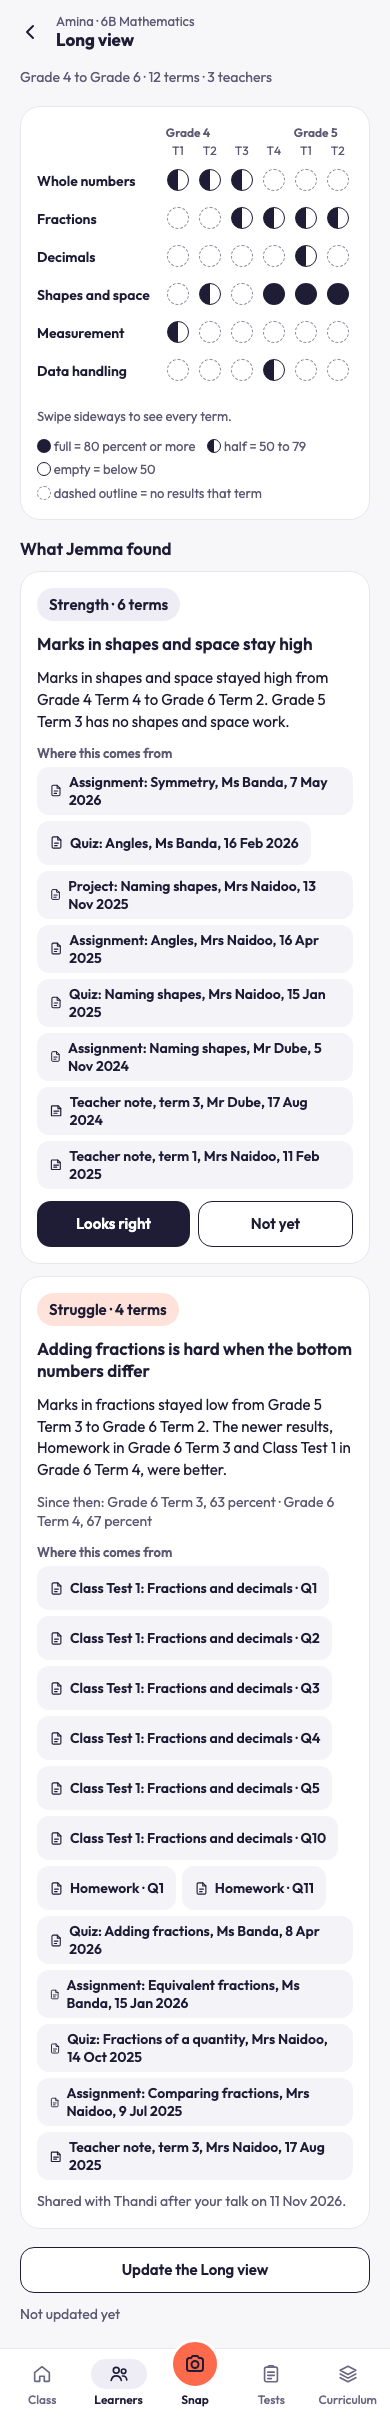
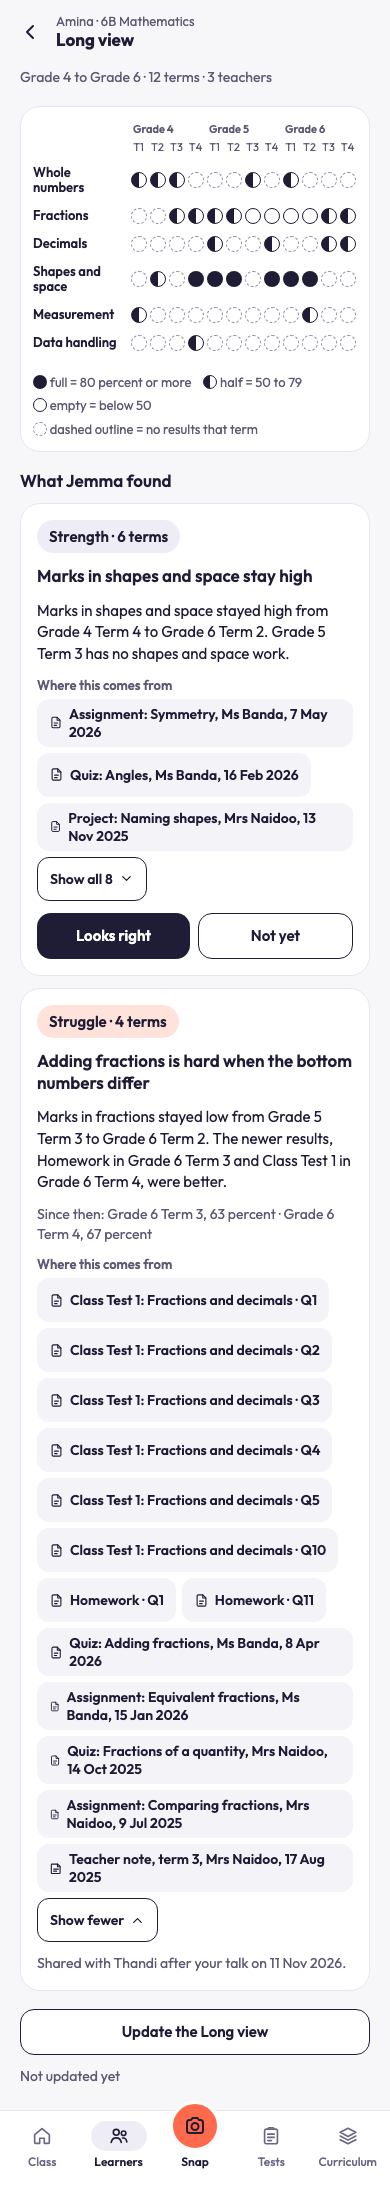
feat(long-view): the phone grid shows every term (12 or fewer) with no sideways scroll; checks at 390, 360 and 320

diff --git a/apps/web/app/t/[classId]/learners/[childId]/long-view/page.tsx b/apps/web/app/t/[classId]/learners/[childId]/long-view/page.tsx
@@ -1,4 +1,5 @@
 import { notFound } from 'next/navigation'
+import type { CSSProperties } from 'react'
 import { EmptyState } from '@/components/blocks'
 import { Card } from '@/components/ui'
 import { requireRole } from '@/lib/auth'
@@ -8,13 +9,16 @@ import { PatternCard, SetAside } from './PatternCard'
 import { OpenUpdate, UpdateBar } from './UpdateBar'
 
 const DOT = 'block size-[22px] rounded-pill'
+/** A crowded grid on a phone: the dot is 16 px, and never wider than its column less 3 px, so two dots never touch. From a laptop up it is the usual 22 px. */
+const DOT_CROWDED = 'block rounded-pill max-lg:mx-auto max-lg:aspect-square max-lg:w-[calc(100%-3px)] max-lg:max-w-4 lg:size-[22px]'
 
 /** One dot of the grid. Full, half and empty are filled, half-filled and a ring; dashed means no results that term. */
-function Dot({ level }: { level: DotLevel }) {
-  if (level === 'full') return <span aria-hidden="true" className={`${DOT} bg-ink`} />
-  if (level === 'half') return <span aria-hidden="true" className={`${DOT} border-[1.5px] border-ink bg-[linear-gradient(90deg,var(--color-ink)_50%,transparent_50%)]`} />
-  if (level === 'empty') return <span aria-hidden="true" className={`${DOT} border-[1.5px] border-ink bg-card`} />
-  return <span aria-hidden="true" className={`${DOT} border-[1.5px] border-dashed border-muted-2`} />
+function Dot({ level, crowded = false }: { level: DotLevel; crowded?: boolean }) {
+  const size = crowded ? DOT_CROWDED : DOT
+  if (level === 'full') return <span aria-hidden="true" className={`${size} bg-ink`} />
+  if (level === 'half') return <span aria-hidden="true" className={`${size} border-[1.5px] border-ink bg-[linear-gradient(90deg,var(--color-ink)_50%,transparent_50%)]`} />
+  if (level === 'empty') return <span aria-hidden="true" className={`${size} border-[1.5px] border-ink bg-card`} />
+  return <span aria-hidden="true" className={`${size} border-[1.5px] border-dashed border-muted-2`} />
 }
 
 function MiniDot({ level }: { level: DotLevel }) {
@@ -25,6 +29,14 @@ function MiniDot({ level }: { level: DotLevel }) {
   )
 }
 
+/** Up to this many term columns a phone fits the whole grid in its card. More than this, or a window under 360 px, and the grid scrolls inside the card as before. */
+const PHONE_FITS = 12
+/** A phone column is never narrower than this, and the strand names get 96 px. */
+const PHONE_COLUMN_MIN = 15
+const PHONE_STRAND_WIDTH = 96
+/** In a 320 px window the card is 254 px wide, so from this many terms the grid has to scroll inside it, and says so. */
+const SCROLLS_UNDER_360_FROM = 11
+
 /** Strands down the side, terms across, grouped under their grade. The strand names stay put when the grid scrolls sideways. */
 function Grid({ v }: { v: LongView }) {
   if (v.rows.length === 0) {
@@ -34,13 +46,32 @@ function Grid({ v }: { v: LongView }) {
       </Card>
     )
   }
+  const terms = v.columns.length
+  // From a laptop up nothing here changes. On a phone a grid of 12 terms or fewer is laid out in the card's width (strand names wrap onto two lines, the
+  // terms share the rest, and 7 or more terms get smaller dots). Anything bigger keeps the sideways scroll.
+  const fits = terms <= PHONE_FITS
+  const crowded = fits && terms > 6
+  const table = fits
+    ? 'w-full table-fixed min-w-[var(--grid-min)] border-separate border-spacing-0 lg:w-full lg:table-auto lg:min-w-max'
+    : 'min-w-max border-separate border-spacing-0 lg:w-full'
+  const strand = fits ? 'max-lg:pr-2 max-lg:text-[13px] max-lg:whitespace-normal lg:whitespace-nowrap' : 'whitespace-nowrap'
+  const cell = fits ? 'max-lg:px-0 lg:px-[5px]' : 'px-[5px]'
+  const termLabel = crowded ? 'text-[12px] max-lg:text-[11px]' : 'text-[12px]'
   return (
-    <Card as="section" radius={20} aria-labelledby="lv-grid" className="gap-3">
+    <Card as="section" radius={20} aria-labelledby="lv-grid" className={`gap-3 ${fits ? 'max-lg:p-3' : ''}`}>
       <h2 id="lv-grid" className="sr-only">
         Marks by strand and term
       </h2>
       <div className="-mx-1 overflow-x-auto px-1 pb-1" role="region" aria-label="Marks by strand and term, scrolls sideways" tabIndex={0}>
-        <table className="min-w-max border-separate border-spacing-0 lg:w-full">
+        <table className={table} style={fits ? ({ '--grid-min': `${PHONE_STRAND_WIDTH + terms * PHONE_COLUMN_MIN}px` } as CSSProperties) : undefined}>
+          {fits ? (
+            <colgroup>
+              <col className="max-lg:w-24" />
+              {v.columns.map((c) => (
+                <col key={c.key} />
+              ))}
+            </colgroup>
+          ) : null}
           <thead>
             <tr>
               <th scope="col" className="sticky left-0 z-10 bg-card p-0">
@@ -48,14 +79,26 @@ function Grid({ v }: { v: LongView }) {
               </th>
               {v.gradeGroups.map((g) => (
                 <th key={`${g.grade}-${g.span}`} scope="colgroup" colSpan={g.span} className="relative h-5 p-0 text-left">
-                  <span className="absolute top-0 left-1 text-[12px] leading-5 font-semibold whitespace-nowrap text-body">{g.span >= 2 ? `Grade ${g.grade}` : `Gr ${g.grade}`}</span>
+                  <span className="absolute top-0 left-1 text-[12px] leading-5 font-semibold whitespace-nowrap text-body max-lg:text-[11px]">
+                    {/* "Grade 4" when it has room: on a crowded phone grid that takes 3 terms, elsewhere 2. */}
+                    {crowded && g.span === 2 ? (
+                      <>
+                        <span className="lg:hidden">{`Gr ${g.grade}`}</span>
+                        <span className="max-lg:hidden">{`Grade ${g.grade}`}</span>
+                      </>
+                    ) : g.span >= 2 ? (
+                      `Grade ${g.grade}`
+                    ) : (
+                      `Gr ${g.grade}`
+                    )}
+                  </span>
                 </th>
               ))}
             </tr>
             <tr>
               <td className="sticky left-0 z-10 bg-card p-0" />
               {v.columns.map((c) => (
-                <th key={c.key} scope="col" className="relative px-[5px] pb-1 text-center text-[12px] leading-4 font-normal text-body">
+                <th key={c.key} scope="col" className={`relative ${cell} pb-1 text-center ${termLabel} leading-4 font-normal text-body`}>
                   <span aria-hidden="true">T{c.term}</span>
                   <span className="sr-only">{`Grade ${c.grade} Term ${c.term}`}</span>
                 </th>
@@ -65,13 +108,13 @@ function Grid({ v }: { v: LongView }) {
           <tbody>
             {v.rows.map((r) => (
               <tr key={r.family}>
-                <th scope="row" className="sticky left-0 z-10 bg-card py-1.5 pr-3 text-left text-[14px] leading-[1.2] font-semibold whitespace-nowrap">
+                <th scope="row" className={`sticky left-0 z-10 bg-card py-1.5 pr-3 text-left text-[14px] leading-[1.2] font-semibold ${strand}`}>
                   {r.name}
                 </th>
                 {r.cells.map((c, i) => (
-                  <td key={v.columns[i]!.key} className="px-[5px] py-1.5 text-center">
-                    <span role="img" aria-label={c.alt} className="inline-flex">
-                      <Dot level={c.level} />
+                  <td key={v.columns[i]!.key} className={`${cell} py-1.5 text-center`}>
+                    <span role="img" aria-label={c.alt} className={fits ? 'flex max-lg:justify-center lg:inline-flex' : 'inline-flex'}>
+                      <Dot level={c.level} crowded={crowded} />
                     </span>
                   </td>
                 ))}
@@ -80,7 +123,11 @@ function Grid({ v }: { v: LongView }) {
           </tbody>
         </table>
       </div>
-      {v.columns.length > 6 ? <p className="m-0 text-[13px] leading-[1.4] text-body lg:hidden">Swipe sideways to see every term.</p> : null}
+      {terms > PHONE_FITS ? (
+        <p className="m-0 text-[13px] leading-[1.4] text-body lg:hidden">Swipe sideways to see every term.</p>
+      ) : terms >= SCROLLS_UNDER_360_FROM ? (
+        <p className="m-0 hidden text-[13px] leading-[1.4] text-body max-[359px]:block">Swipe sideways to see every term.</p>
+      ) : null}
       <p className="m-0 flex flex-wrap gap-x-3 gap-y-1 text-[13px] leading-[1.5] text-body">
         <span className="whitespace-nowrap">
           <MiniDot level="full" /> full = 80 percent or more

diff --git a/apps/web/e2e/p52.spec.ts b/apps/web/e2e/p52.spec.ts
@@ -20,7 +20,7 @@ const proofDir = resolve(import.meta.dirname, '../../../design/proof/p52')
 async function proof(page: Page, name: string, fullPage = true) {
   if (!process.env.P52_PROOF) return
   mkdirSync(proofDir, { recursive: true })
-  const width = page.viewportSize()!.width >= 1024 ? 1440 : 390
+  const width = page.viewportSize()!.width >= 1024 ? 1440 : page.viewportSize()!.width
   await page.evaluate(() => document.fonts.ready)
   // The bottom bar sticks to the window: in a whole-page picture it would float in the middle, so it goes to the end of the page.
   const bar = fullPage ? 'nav.sticky.bottom-0{position:static !important}' : ''
@@ -130,7 +130,41 @@ test.describe('the Long view', () => {
       await expect(page.getByText(/full = 80 percent or more/)).toBeVisible()
       await expect(page.getByText(/dashed outline = no results that term/)).toBeVisible()
       await noHorizontalScroll(page)
-      if (!phone) expect(await page.getByRole('region', { name: /scrolls sideways/ }).evaluate((el) => el.scrollWidth <= el.clientWidth)).toBe(true)
+      const grid = page.getByRole('region', { name: /scrolls sideways/ })
+      const firstTerm = table.getByRole('columnheader', { name: 'Grade 4 Term 1' })
+      const lastTerm = table.getByRole('columnheader', { name: 'Grade 6 Term 4' })
+      /** Every term is on the screen: the card does not scroll, the first and the last term header are inside the window, no strand name is cut off, no two dots touch. */
+      const everyTermShows = async (width: number) => {
+        expect(await grid.evaluate((el) => el.scrollWidth <= el.clientWidth), `the grid scrolls at ${width}`).toBe(true)
+        for (const head of [firstTerm, lastTerm]) {
+          const box = (await head.boundingBox())!
+          expect(box.x, `a term header starts outside the window at ${width}`).toBeGreaterThanOrEqual(0)
+          expect(box.x + box.width, `a term header ends outside the window at ${width}`).toBeLessThanOrEqual(width)
+        }
+        const cut = await table.getByRole('rowheader').evaluateAll((rows) => rows.filter((r) => r.scrollWidth > r.clientWidth).map((r) => r.textContent))
+        expect(cut, `strand names are cut off at ${width}`).toEqual([])
+        const dots = await table.getByRole('row').nth(2).getByRole('img').evaluateAll((els) => els.map((el) => el.firstElementChild!.getBoundingClientRect()).map((r) => ({ left: r.left, right: r.right, width: r.width })))
+        expect(dots.length).toBeGreaterThan(6)
+        for (let i = 1; i < dots.length; i++) expect(dots[i]!.left - dots[i - 1]!.right, `two dots touch at ${width}`).toBeGreaterThanOrEqual(2)
+        await expect(page.getByText('Swipe sideways to see every term.')).toBeHidden()
+      }
+      if (phone) {
+        // From 360 px up a phone shows every term with no sideways scroll inside the card. Under that the card scrolls, never the page.
+        for (const width of [390, 360]) {
+          await page.setViewportSize({ width, height: 844 })
+          await everyTermShows(width)
+          await noHorizontalScroll(page)
+        }
+        await proof(page, 'teacher-grid', false)
+        await page.setViewportSize({ width: 320, height: 844 })
+        await noHorizontalScroll(page)
+        await expect(page.getByText('Swipe sideways to see every term.')).toBeVisible()
+        await proof(page, 'teacher-grid', false)
+        await page.setViewportSize({ width: 390, height: 844 })
+        await everyTermShows(390)
+      } else {
+        await everyTermShows(1440)
+      }
 
       // Two patterns, both drafts. A pattern that newer terms followed is never called running.
       await expect(page.getByRole('article')).toHaveCount(2)
@@ -148,7 +182,21 @@ test.describe('the Long view', () => {
       await expect(page.getByRole('button', { name: 'Update the Long view' })).toBeVisible()
       // No ranking and no comparison with other learners anywhere on the screen.
       await expect(page.locator('main')).not.toContainText(/class average|rank|better than|than the class|classmates/i)
+      // A pattern with more than 4 sources shows its first 3 chips and "Show all N". Tapped, it shows all N, and a chip opens its sheet.
+      const sourcesOf = (card: typeof fractions) => card.getByRole('region', { name: /^Where this comes from/ })
+      const chipsOf = (card: typeof fractions) => sourcesOf(card).locator('a, button:not([aria-expanded])')
+      await expect(chipsOf(fractions)).toHaveCount(3)
+      await expect(chipsOf(shapes)).toHaveCount(3)
       await proof(page, 'teacher-drafts')
+      const showAll = sourcesOf(fractions).getByRole('button', { name: /^Show all \d+$/ })
+      await expect(showAll).toHaveAttribute('aria-expanded', 'false')
+      expect((await showAll.boundingBox())!.height).toBeGreaterThanOrEqual(44)
+      const total = Number((await showAll.innerText()).match(/\d+/)![0])
+      expect(total).toBeGreaterThan(4)
+      await showAll.click()
+      await expect(chipsOf(fractions)).toHaveCount(total)
+      await expect(sourcesOf(fractions).getByRole('button', { name: 'Show fewer' })).toHaveAttribute('aria-expanded', 'true')
+      await proof(page, 'teacher-sources-open')
 
       // A marked answer links to the paper at that question.
       const answer = fractions.locator('a[href*="/papers/"]').first()
